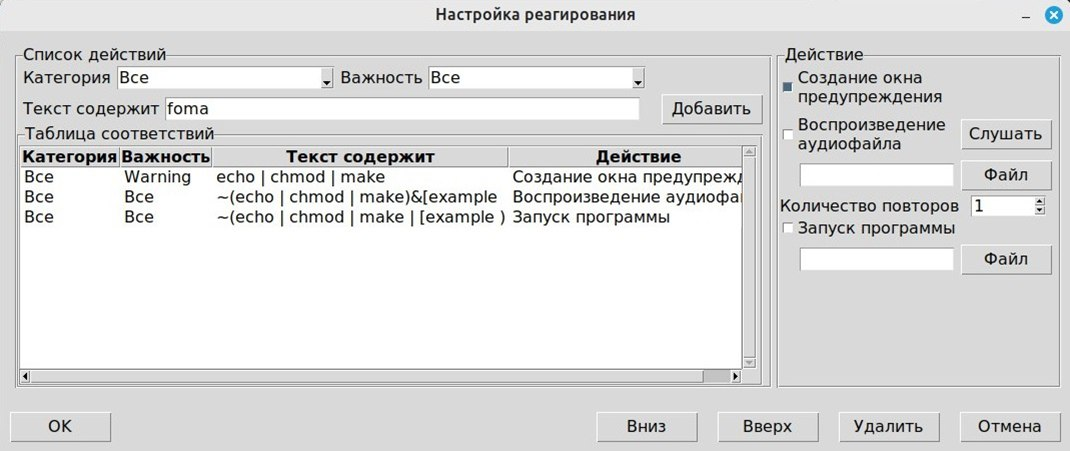
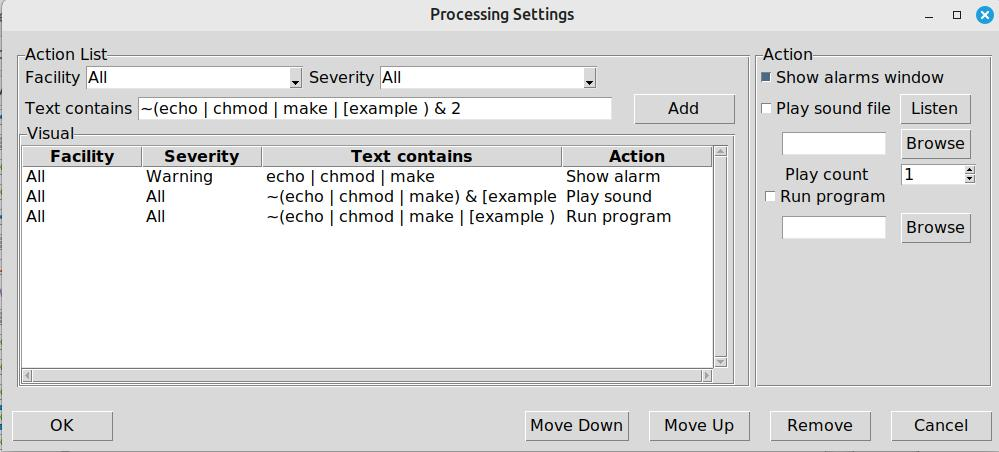
f0ma

diff --git a/code.py b/code.py
@@ -117,7 +117,7 @@ class SyslogServer(tk.Tk):
         self.upd_enabled = False
         self.server = None
 
-        self.title("Visual Syslog Server for Linux")
+        self.title("Visual Syslog Server by f0ma")
         self.geometry("800x600")
 
         self.toolbar_frame = ttk.Frame(self)

diff --git a/README.md b/README.md
@@ -1,46 +1,46 @@
 # f0ma
 
-## Описание
-Мощное средство для сбора логов с различных устройств, предоставляющие инструменты для эффективного мониторинга и анализа системных событий.
+## Description
+A powerful tool for collecting logs from various devices, providing tools for effective monitoring and analysis of system events.
 
-## Установка и запуск
+## Installation and launch
 
 ### Windows
-1. Скачайте и распакуйте проект.
-2. Откройте командную строку и перейдите в папку проекта.
-3. Запустите batch скрипт:
+1. Download and unpack the project.
+2. Open a command prompt and go to your project folder.
+3. Run the batch script:
     ```cmd
     run_windows.bat
     ```
 
 ### Unix/Linux/MacOS
-1. Скачайте и распакуйте проект.
-2. Откройте терминал и перейдите в папку проекта.
-3. Сделайте скрипт исполняемым 
+1. Download and unpack the project.
+2. Open a terminal and go to your project folder.
+3. Make the script executable 
    ```bash
     chmod +x run_unix.sh
    ```
-4. Запустите скрипт
+4. Run the script
    ```bash
     ./run_unix.sh
     ```
-## Скриншоты
+## Screenshots
 
-### Интерфейс "Визуального сервера системного журнала от f0ma"
+### Interface of the "Visual syslog server by f0ma""
 ![Main Interface](images/1.jpg)
 
-### Окно настройки соединения
+### Connection settings window
 ![Another Screenshot](images/2.jpg)
 
-### Окно настройки ротации
+### Rotation settings window
 ![Main Interface](images/3.jpg)
 
-### Окно настройки цветового выделения
+### Color selection window
 ![Another Screenshot](images/4.jpg)
 
-### Окно настройки реагирования
+### Reaction settings window
 ![Main Interface](images/5.jpg)
 
-### Окно настройки фильтрации
+### Filtering settings window
 ![Another Screenshot](images/6.jpg)
 
